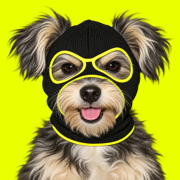
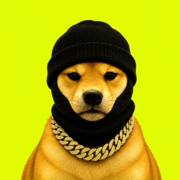
feat: add official Shiesty art and color pack

diff --git a/app/page.tsx b/app/page.tsx
@@ -70,7 +70,7 @@ export default function Home() {
       <header className="site-header">
         <a className="brand" href="#top" aria-label="Dog Wif Shiesty home">
           <span className="brand-avatar">
-            <Image src="/shiesty-logo.png" alt="" fill priority sizes="48px" />
+            <Image src="/shiesty-logo.jpg" alt="" fill priority sizes="48px" />
           </span>
           <span className="brand-copy">
             <strong>DOG WIF SHIESTY</strong>
@@ -128,16 +128,16 @@ export default function Home() {
           ) : null}
         </div>
 
-        <div className="hero-art" aria-label="Forty dogs wearing different shiesty masks">
+        <div className="hero-art" aria-label="Forty colorful animals wearing different shiesty masks and accessories">
           <div className="hero-window">
             <div className="window-title">
-              <span>THE_HOOD_CAM_001-040.JPG</span>
+              <span>THE_SHIESTY_PACK_001-040.JPG</span>
               <span>40 MASKS LOADED</span>
             </div>
             <div className="hero-photo">
               <Image
                 src="/shiesty-dog-wall.png"
-                alt="A wall of forty original dogs wearing black and neon shiesty masks"
+                alt="A colorful wall of forty masked characters, mainly dogs, wearing different shiestys and accessories"
                 fill
                 priority
                 sizes="(max-width: 820px) 94vw, 58vw"
@@ -167,7 +167,7 @@ export default function Home() {
           <div className="section-kicker section-kicker-light"><span>01</span><p>WELCOME TO THE HOOD</p></div>
           <div className="hood-layout">
             <div className="hood-logo-card">
-              <Image src="/shiesty-logo.png" alt="Dog Wif Shiesty wearing a neon-lined mask" fill sizes="(max-width: 760px) 88vw, 42vw" />
+              <Image src="/shiesty-logo.jpg" alt="Dog Wif Shiesty wearing a black mask and gold chain on a neon background" fill sizes="(max-width: 760px) 88vw, 42vw" />
               <span>MASK ON</span>
             </div>
             <div className="hood-copy">
@@ -248,10 +248,21 @@ export default function Home() {
         </section>
       ) : null}
 
+      <section className="official-banner-section" aria-label="Official Dog Wif Shiesty banner" data-reveal>
+        <div className="official-banner-frame">
+          <Image
+            src="/shiesty-banner.jpg"
+            alt="Dog Wif Shiesty banner featuring a crew of masked dogs"
+            fill
+            sizes="100vw"
+          />
+        </div>
+      </section>
+
       <footer className="site-footer">
         <div className="footer-main">
           <div className="footer-brand">
-            <span><Image src="/shiesty-logo.png" alt="" fill sizes="58px" /></span>
+            <span><Image src="/shiesty-logo.jpg" alt="" fill sizes="58px" /></span>
             <div><strong>$SHIESTY</strong><small>CREATOR SHARE BACK TO THE HOOD.</small></div>
           </div>
           <div className="footer-links">

diff --git a/app/globals.css b/app/globals.css
@@ -231,6 +231,22 @@ h1, h2, h3, p { margin-top: 0; }
 .registry-table code { font-family: var(--font-mono); font-size: .64rem; overflow: hidden; text-overflow: ellipsis; white-space: nowrap; }
 .registry-table a { border-bottom: 1px solid var(--ink); font-family: var(--font-mono); font-size: .62rem; font-weight: 900; }
 
+.official-banner-section {
+  background: var(--neon);
+  border-top: 4px solid var(--ink);
+  padding: clamp(28px, 4vw, 62px) clamp(14px, 4vw, 64px);
+}
+.official-banner-frame {
+  aspect-ratio: 1280 / 426;
+  border: 4px solid var(--ink);
+  box-shadow: 12px 12px 0 var(--ink);
+  margin: 0 auto;
+  max-width: 1500px;
+  overflow: hidden;
+  position: relative;
+}
+.official-banner-frame img { object-fit: cover; }
+
 .site-footer { background: var(--ink); color: var(--white); padding: 46px clamp(18px, 4vw, 64px) 27px; }
 .footer-main { align-items: center; display: flex; justify-content: space-between; margin: 0 auto; max-width: 1470px; }
 .footer-brand { align-items: center; display: flex; gap: 13px; }
@@ -319,6 +335,8 @@ h1, h2, h3, p { margin-top: 0; }
   .registry-table > div { align-items: start; grid-template-columns: 1fr auto; }
   .registry-table span { grid-column: 1 / -1; }
   .registry-table code { max-width: 100%; }
+  .official-banner-section { padding: 22px 12px 30px; }
+  .official-banner-frame { aspect-ratio: 2 / 1; border-width: 3px; box-shadow: 7px 7px 0 var(--ink); }
   .footer-links { display: grid; grid-template-columns: 1fr 1fr; }
   .cursor-glow { display: none; }
 }

diff --git a/app/layout.tsx b/app/layout.tsx
@@ -12,22 +12,22 @@ export const metadata: Metadata = {
   title: "$SHIESTY | Dog Wif Shiesty",
   description: "In the hood, we wear shiestys. A masked community meme on Robinhood Chain, powered by Pons.",
   icons: {
-    icon: "/shiesty-favicon.png?v=1",
-    shortcut: "/shiesty-favicon.png?v=1",
-    apple: "/shiesty-apple-touch-icon.png?v=1",
+    icon: "/shiesty-favicon.png?v=2",
+    shortcut: "/shiesty-favicon.png?v=2",
+    apple: "/shiesty-apple-touch-icon.png?v=2",
   },
   openGraph: {
     title: "$SHIESTY | Dog Wif Shiesty",
     description: "In the hood, we wear shiestys. The creator share goes back to the community.",
     type: "website",
     siteName: "Dog Wif Shiesty",
-    images: [{ url: "/og.png", width: 1200, height: 630, alt: "Dog Wif Shiesty, the masked dog of Robinhood Chain" }],
+    images: [{ url: "/shiesty-banner.jpg", width: 1280, height: 426, alt: "Dog Wif Shiesty, the masked dog crew of Robinhood Chain" }],
   },
   twitter: {
     card: "summary_large_image",
     title: "$SHIESTY | Dog Wif Shiesty",
     description: "In the hood, we wear shiestys. The creator share goes back to the community.",
-    images: ["/og.png"],
+    images: ["/shiesty-banner.jpg"],
   },
 };
 

diff --git a/docs/SHIESTY_ASSET_PROMPTS.md b/docs/SHIESTY_ASSET_PROMPTS.md
@@ -1,21 +1,40 @@
-# Dog Wif Shiesty asset prompts
+# Dog Wif Shiesty brand assets
 
-All three assets were made with Codex's built-in image generation tool. They are original artwork and intentionally avoid reproducing Dogwifhat or any existing meme photograph.
+## User-provided artwork
 
-## Logo and favicon source
+- `public/shiesty-logo.jpg` is the supplied official square logo.
+- `public/shiesty-banner.jpg` is the supplied official group banner and social-preview image.
+- `public/shiesty-favicon.png` and `public/shiesty-apple-touch-icon.png` are size variants derived from the supplied logo.
 
-> Create an original square meme-token logo: a cute cream-and-charcoal scruffy terrier-mix, head and upper body centered, wearing a snug black knitted balaclava with crisp electric-neon-yellow piping around the face opening. Put the dog against a solid electric neon-yellow background. Use lo-fi direct-flash editorial photography, tactile fur and knit texture, confident deadpan expression, bold centered silhouette, and enough negative space to crop cleanly as a circular favicon. No hat, text, logos, trademarks, weapons, aggression, or recreation of an existing meme dog.
+## Color Shiesty wall
 
-Saved as `public/shiesty-logo.png`, with favicon and Apple touch-icon crops derived from it.
+`public/shiesty-dog-wall.png` was created in one request with Codex's built-in image generation tool using both supplied images as visual references.
 
-## Forty-dog hero wall
+Exact final prompt:
 
-> Create one original wide photographic contact sheet showing exactly 40 distinct cute dogs in a strict 8-column by 5-row grid. Every cell has one different dog portrait wearing a visibly different black, charcoal, off-white, or electric-neon-yellow balaclava. Blend early-internet meme collage, CCTV scanlines, photocopy grit, direct-flash photography, and abstract chain-native terminal geometry. Use thin off-white and neon-yellow dividers. Keep every dog charming and non-threatening. No text, letters, numbers, logos, brand marks, weapons, people, duplicated dogs, missing cells, or imitation of Dogwifhat or any existing meme photo.
+```text
+Use case: ads-marketing
+Asset type: full-bleed landscape website hero contact-sheet image
+Primary request: Create one photorealistic premium streetwear/meme contact sheet with exactly 40 equal square portrait cells arranged in a perfectly strict 8-column × 5-row landscape grid. The sheet contains exactly 34 distinct dogs plus exactly 6 other cute animals: one cat, one raccoon, one fox, one meerkat, one capybara, and one rabbit. There is exactly one animal in every cell and no animal crosses a divider.
 
-Saved as `public/shiesty-dog-wall.png`.
+Input-image roles and visual direction: The two supplied local images were inspected only as style and mood references, not edit targets. Image 1 contributes the centered chest-up animal portrait, acid-neon-lime studio field, crisp direct flash, realistic fur, black rib-knit balaclava, and polished chain detail. Image 2 contributes the punchy acid-yellow/black streetwear campaign energy, hard frontal flash, colored masks, deep contrast, subtle gritty vignette, and bold meme-photo attitude. Do not copy or reproduce any text, lettering, logos, marks, or exact composition from either reference.
 
-## Social preview
+Grid and framing: Exactly 8 columns and exactly 5 rows, 40 cells total, no title area, no margins, no missing or merged cells. All cells are identical square proportions within an 8:5 full-bleed landscape contact sheet. Use perfectly straight orthogonal dividers: thin black rules with a fine neon-yellow accent line. In every cell, show a single centered chest-up animal looking toward camera, face large and immediately legible at thumbnail size, balanced headroom, direct frontal or very slight three-quarter angle. No full-body poses and no extra creatures.
 
-> Create a 1200 x 630 original black-and-neon-yellow editorial social card. Place the original scruffy dog in a black balaclava with neon-yellow piping on the right, with a subtle tiled masked-dog contact sheet and abstract terminal texture behind it. Use only this exact text: `DOG WIF SHIESTY`, `$SHIESTY`, and `IN THE HOOD, WE WEAR SHIESTYS.` Make the title large, condensed, and highly legible. No other text, logos, trademarks, threatening imagery, or imitation of an existing meme photo.
+Mask rule: Every single animal wears a clearly visible, snug, authentic shiesty/balaclava covering the head and neck, with clean openings that reveal the eyes and muzzle/nose. A balaclava is required in all 40 cells; never substitute a beanie, ordinary hat, hood, or scarf. Keep eyes, nose, mouth, ears, and fur anatomy believable and undistorted. Each mask must have a visibly different color, pattern, or material from every other mask.
 
-Saved as `public/og.png`.
+Exact cell roster, read left-to-right in each row:
+Row 1 — (1) Shiba Inu, black rib-knit balaclava, solid neon-yellow background, chunky gold chain; (2) French Bulldog, hot-pink cable-knit balaclava, solid cyan background, slim silver chain; (3) Golden Retriever, cobalt-blue fleece balaclava, solid saturated-red background, black sunglasses worn over the mask; (4) Chihuahua, glossy red satin balaclava, purple-to-magenta gradient background, one tiny silver earring; (5) German Shepherd, acid-lime waffle-knit balaclava, black background with neon-yellow halftone dots, compact over-ear headphones; (6) Pug, plush purple velvet balaclava, solid orange background, black bow tie; (7) Dalmatian, white-and-black checker-knit balaclava, solid hot-pink background, reflective ski goggles over the mask; (8) Rottweiler, metallic-silver lamé balaclava, solid cobalt background, black hoodie collar.
+Row 2 — (9) Labrador Retriever, orange rib-knit balaclava, solid neon-lime background, fine gold necklace; (10) Border Collie, cyan neoprene balaclava, red-and-black checker background, no accessory; (11) Beagle, sunflower-yellow crochet balaclava, solid violet background, round sunglasses over the mask; (12) Siberian Husky, matte black faux-leather balaclava, clean high-key white background, silver curb chain; (13) Dachshund, red-and-white striped knit balaclava, cyan-to-magenta gradient background, colorful headphones; (14) Boxer, emerald paisley-jacquard balaclava, orange halftone background, bandana tied only at the neck; (15) Pembroke Welsh Corgi, rainbow mohair balaclava, solid black background with a thin lime rim light, small bow tie; (16) Doberman, matte burgundy jersey balaclava, neon-yellow/neon-pink split-color background, amber ski goggles over the mask.
+Row 3 — (17) Samoyed, iridescent pearl-knit balaclava, cobalt-to-cyan gradient background, delicate necklace; (18) Australian Shepherd, turquoise zigzag-knit balaclava, solid hot-red background, silver chain; (19) Yorkshire Terrier, mustard corduroy balaclava, purple halftone background, narrow sunglasses over the mask; (20) Great Dane, black-and-white houndstooth balaclava, solid neon-orange background, cobalt hoodie collar; (21) Miniature Schnauzer, electric-blue chunky-knit balaclava, lime-and-black checker background, two tiny silver earrings; (22) Boston Terrier, scarlet rib-knit balaclava, clean white background with sparse cobalt polka dots, no accessory; (23) Akita, vivid magenta velour balaclava, black-to-purple gradient background, sleek headphones; (24) English Bulldog, acid-green mesh-knit balaclava, hot-pink/cyan split-color background, chunky gold chain.
+Row 4 — (25) Cane Corso, cobalt corduroy balaclava, solid neon-yellow background, dark ski goggles over the mask; (26) Jack Russell Terrier, orange floral-jacquard balaclava, solid matte-black background, lime bow tie; (27) Pomeranian, lavender faux-fur balaclava, cyan halftone background, pearl necklace; (28) Bernese Mountain Dog, red plaid-flannel balaclava, solid neon-lime background, black hoodie collar; (29) Greyhound, glossy teal satin balaclava, solid magenta background, silver sunglasses over the mask; (30) Basset Hound, yellow waffle-knit balaclava, cobalt-and-white checker background, gold chain; (31) American Staffordshire Terrier, black sequined balaclava, red-to-orange gradient background, one tiny silver earring; (32) Papillon, coral crochet balaclava, purple-and-lime checker background, slim bow tie.
+Row 5 — (33) Chow Chow, white sherpa balaclava, solid scarlet background, silver chain; (34) Weimaraner, indigo denim balaclava, neon-yellow halftone background, cobalt headphones; (35) domestic cat, black-and-pink striped knit balaclava, turquoise gradient background, sunglasses over the mask; (36) raccoon, burnt-orange sherpa balaclava, solid cobalt background, small silver necklace; (37) red fox, emerald-green satin balaclava, solid neon-pink background, fine gold chain; (38) meerkat, cyan cable-knit balaclava, black-and-yellow checker background, tiny black bow tie; (39) capybara, purple crochet balaclava, lime-to-orange gradient background, clear ski goggles over the mask; (40) rabbit, crimson velvet balaclava, clean white background with a cyan cast shadow, silver chain.
+
+Style/medium: Punchy photoreal studio animal photography with premium campaign polish and playful meme energy. Real fur, whiskers, wet noses, glassy eyes, detailed knit stitches and textile grain, convincing metal and eyewear reflections. Hard frontal direct flash, crisp focus, rich blacks, saturated color, high micro-contrast, subtle grain, consistent exposure and lens perspective across all cells. Cute, confident, non-aggressive expressions.
+
+Color palette: Strongly varied cell backgrounds including neon yellow, pink, cyan, red, purple, orange, lime, cobalt, black, white, checker patterns, split colors, gradients, and halftones. Preserve strong visual separation between neighboring cells and maintain a cohesive acid-neon yellow/black collection identity through the dividers and lighting.
+
+Hard count constraints: exactly 40 cells; exactly 34 dogs; exactly six non-dogs, consisting only of the single cat, raccoon, fox, meerkat, capybara, and rabbit listed above; exactly one animal per cell; exactly one clearly visible balaclava per animal; all 40 animals visually distinct; no repeated portrait, pose crop, mask design, or duplicated subject.
+
+Avoid: absolutely no text, letters, numbers, typographic marks, logos, brands, slogans, watermarks, signatures, UI, labels, emblems, or readable symbols anywhere. No humans, human hands, human bodies, extra animals, crowd scenes, merged cells, missing cells, uneven cells, curved grid lines, overlapping subjects, or objects crossing dividers. No weapons, money, drugs, cigarettes, alcohol, hand signs, violence, blood, injuries, threatening gestures, police imagery, or crime-scene imagery. No malformed faces, doubled eyes, extra ears, extra limbs, fused eyewear, broken masks, floating accessories, distorted muzzles, uncanny anatomy, illustration, cartoon, 3D render, or low-resolution blur.
+```
